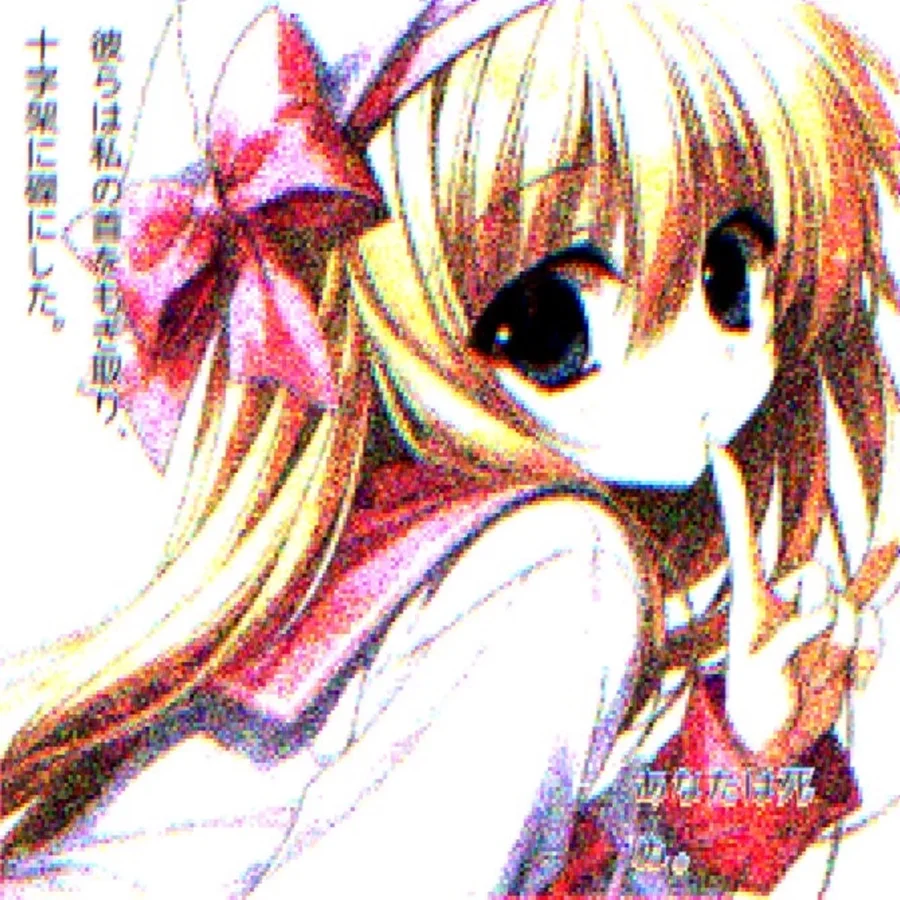
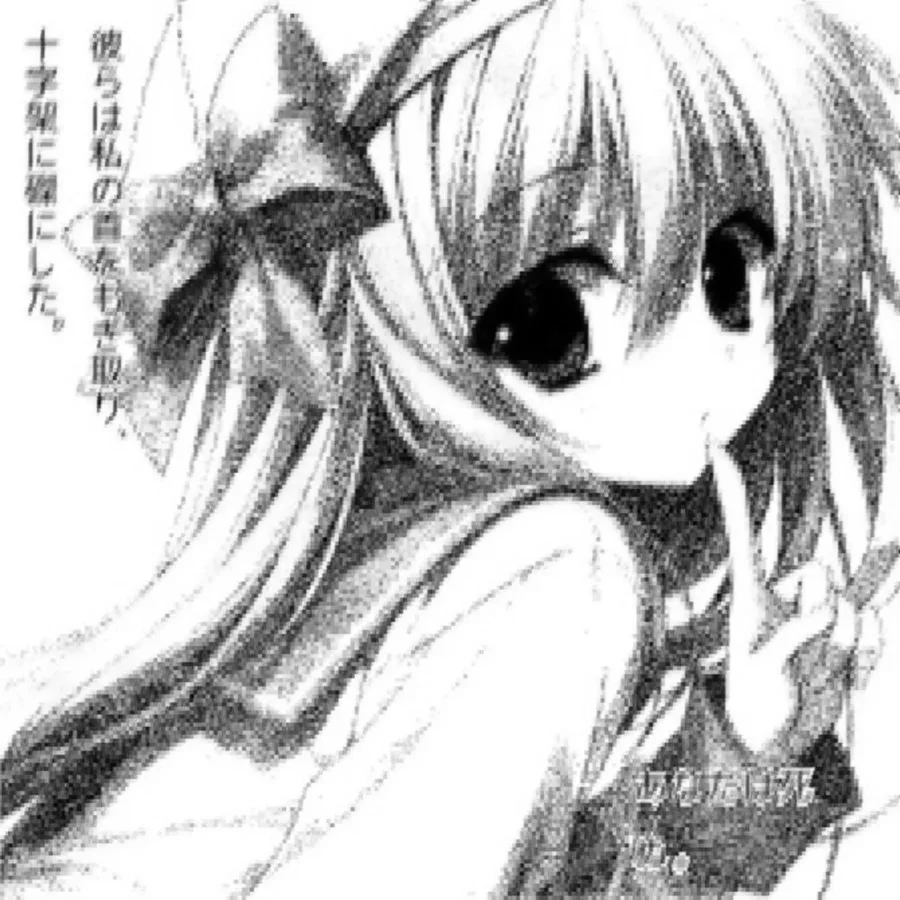
feat: use Instagram visuals in camera roll and black-and-white single covers

diff --git a/src/sections/CameraRoll.tsx b/src/sections/CameraRoll.tsx
@@ -37,6 +37,7 @@ function Photo({ i, distance, className }: { i: number; distance: MotionValue<nu
   return (
     <motion.figure
       className={`roll-photo ${className ?? ''}`}
+      style={{ aspectRatio: photo.ratio }}
       initial={{ y: -180, rotate: base * 5, scale: 1.1, opacity: 0 }}
       whileInView={{ y: 0, rotate: 0, scale: 1, opacity: 1 }}
       whileTap={{ scale: 0.97 }}
@@ -113,8 +114,10 @@ function DesktopRoll() {
       setTravel(Math.max(0, t.scrollWidth - window.innerWidth + window.innerWidth * 0.3))
     }
     measure()
-    window.addEventListener('resize', measure)
-    return () => window.removeEventListener('resize', measure)
+    // re-mesure si la bande change de taille (polices, images, redimensionnement)
+    const ro = new ResizeObserver(measure)
+    if (track.current) ro.observe(track.current)
+    return () => ro.disconnect()
   }, [])
 
   const line = wavyLine(400, 18)
@@ -126,7 +129,7 @@ function DesktopRoll() {
         </div>
         <motion.div ref={track} className="roll-desktop__track" style={{ x }}>
           {ROLL.map((_, i) => (
-            <div key={i} className={`roll-desktop__slot roll-desktop__slot--${i % 3}`}>
+            <div key={i} className={`roll-desktop__slot roll-desktop__slot--${i % 3}`} style={{ aspectRatio: ROLL[i].ratio }}>
               {slots[i] && <DesktopPhoto i={i} x={x} slot={slots[i]} />}
             </div>
           ))}

diff --git a/src/config.ts b/src/config.ts
@@ -53,14 +53,15 @@ export type AlbumSingle = (typeof ALBUM_SINGLES)[number]
 export const spotifyTrackUrl = (id: string) => `https://open.spotify.com/track/${id}`
 export const YOUTUBE_URL = 'https://www.youtube.com/channel/UC9Ze9kfl5XAPp-ukwEB2PPw'
 
-// ⚠ placeholders : recadrages des pochettes, à remplacer par les photos de « the archive »
+// Visuels de la galerie « camera roll » : posts Instagram récents qui préparent l'album + les deux pochettes.
+// `ratio` = largeur / hauteur de l'image (la galerie respecte le format de chaque visuel).
 export const ROLL = [
-  { src: '/img/roll-0.webp', stamp: '23:34' },
-  { src: '/img/roll-1.webp', stamp: '02:11' },
-  { src: '/img/roll-5.webp', stamp: "'26 11 06  23:34" },
-  { src: '/img/roll-3.webp', stamp: '04:56' },
-  { src: '/img/roll-4.webp', stamp: '01:17' },
-  { src: '/img/roll-6.webp', stamp: '00:48' },
+  { src: '/img/roll-dont-compare.webp', ratio: 1.484, stamp: '23:34' },
+  { src: '/img/roll-phone.webp', ratio: 1.504, stamp: '02:11' },
+  { src: '/img/cover-false-sense-of-an-ego.webp', ratio: 1, stamp: "'26 10 02  23:34" },
+  { src: '/img/roll-lyrics.webp', ratio: 1.015, stamp: '04:56' },
+  { src: '/img/roll-collage.webp', ratio: 1.017, stamp: '01:17' },
+  { src: '/img/cover-1134.webp', ratio: 1, stamp: "'26 11 06  00:00" },
 ]
 
 export const LINKS = [

diff --git a/src/sections/CameraRoll.css b/src/sections/CameraRoll.css
@@ -52,20 +52,12 @@
   margin-top: 36px;
 }
 
-.roll-slot .roll-photo {
-  aspect-ratio: 4 / 5;
-}
-
-.roll-slot--0 { grid-column: 1 / 7; margin-right: 4%; }
-.roll-slot--1 { grid-column: 7 / 13; margin: 12% 0 0 6%; }
+.roll-slot--0 { grid-column: 1 / 12; }
+.roll-slot--1 { grid-column: 2 / 13; }
 .roll-slot--2 { grid-column: 2 / 12; }
-.roll-slot--3 { grid-column: 1 / 7; margin-right: 4%; }
-.roll-slot--4 { grid-column: 7 / 13; margin: 8% 0 0 6%; }
-.roll-slot--5 { grid-column: 3 / 11; }
-
-.roll-slot--2 .roll-photo {
-  aspect-ratio: 4 / 5;
-}
+.roll-slot--3 { grid-column: 1 / 9; }
+.roll-slot--4 { grid-column: 5 / 13; }
+.roll-slot--5 { grid-column: 2 / 12; }
 
 .roll-mobile__heart {
   position: absolute;
@@ -110,12 +102,14 @@
 }
 
 .roll-desktop__slot .roll-photo {
+  width: 100%;
   height: 100%;
 }
 
-.roll-desktop__slot--0 { width: 21vw; height: 44vh; }
-.roll-desktop__slot--1 { width: 19vw; height: 40vh; margin-top: -6vh; }
-.roll-desktop__slot--2 { width: 29vw; height: 58vh; margin-top: 4vh; }
+/* hauteur fixe, largeur déduite du format de chaque visuel */
+.roll-desktop__slot--0 { height: 38vh; }
+.roll-desktop__slot--1 { height: 34vh; margin-top: -6vh; }
+.roll-desktop__slot--2 { height: 52vh; margin-top: 4vh; }
 
 .roll-desktop__progress {
   display: flex;

diff --git a/src/sections/NowPlaying.css b/src/sections/NowPlaying.css
@@ -153,7 +153,7 @@
   color: var(--ash);
 }
 
-/* pochettes en noir et blanc dans la rangée (DA), la couleur revient au survol */
+/* pochettes en noir et blanc, comme le reste du site */
 .now__thumb img {
   aspect-ratio: 1;
   width: 100%;
